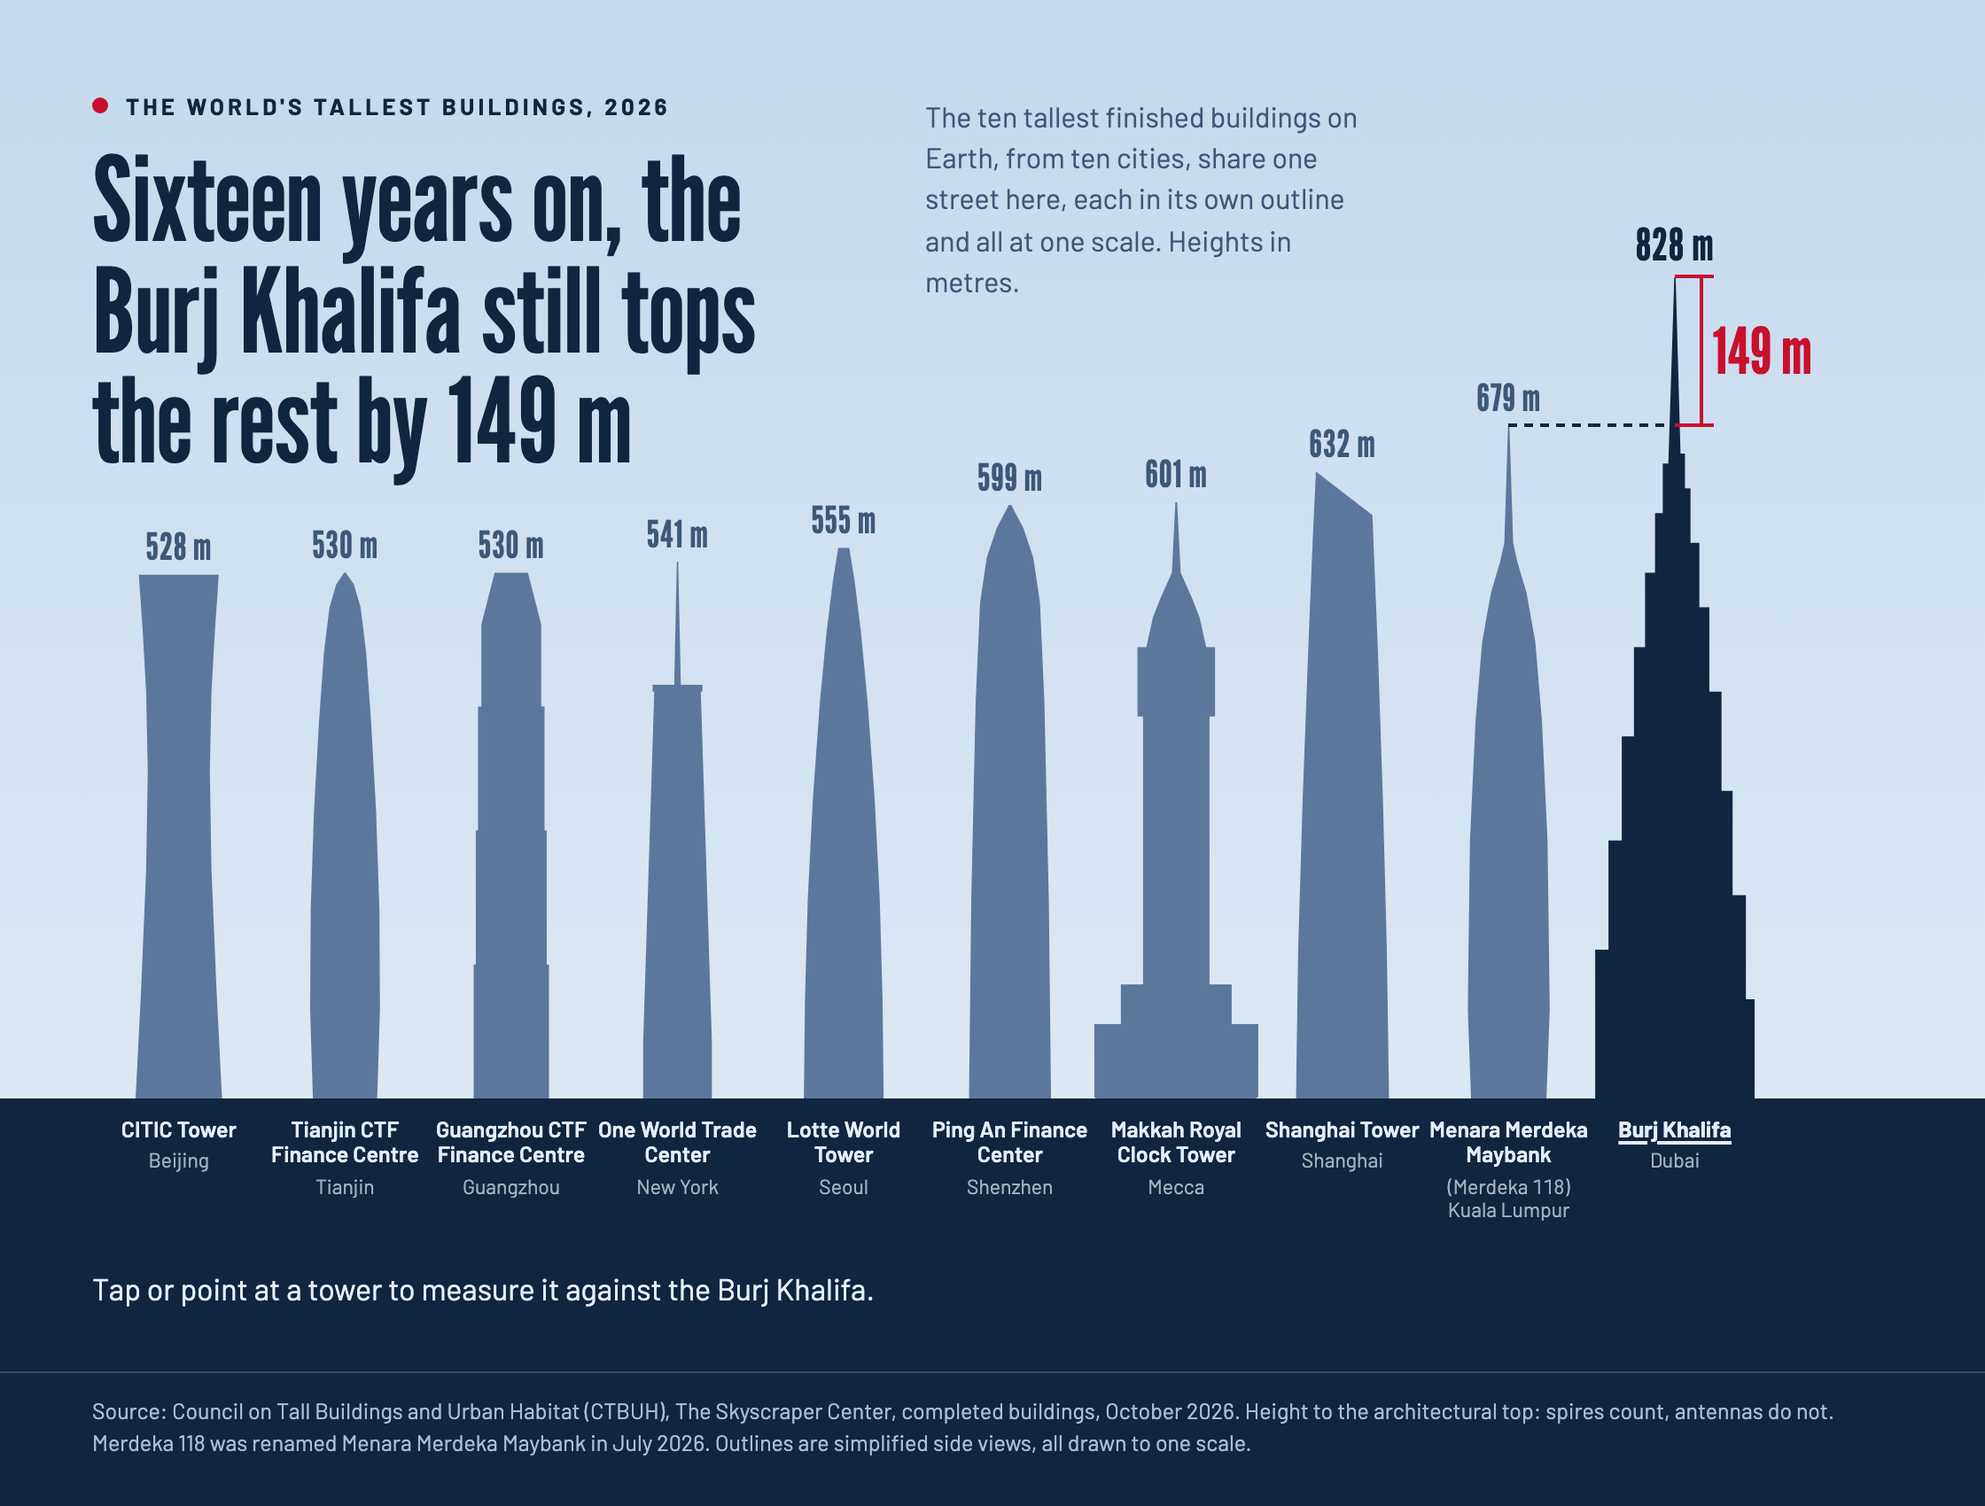
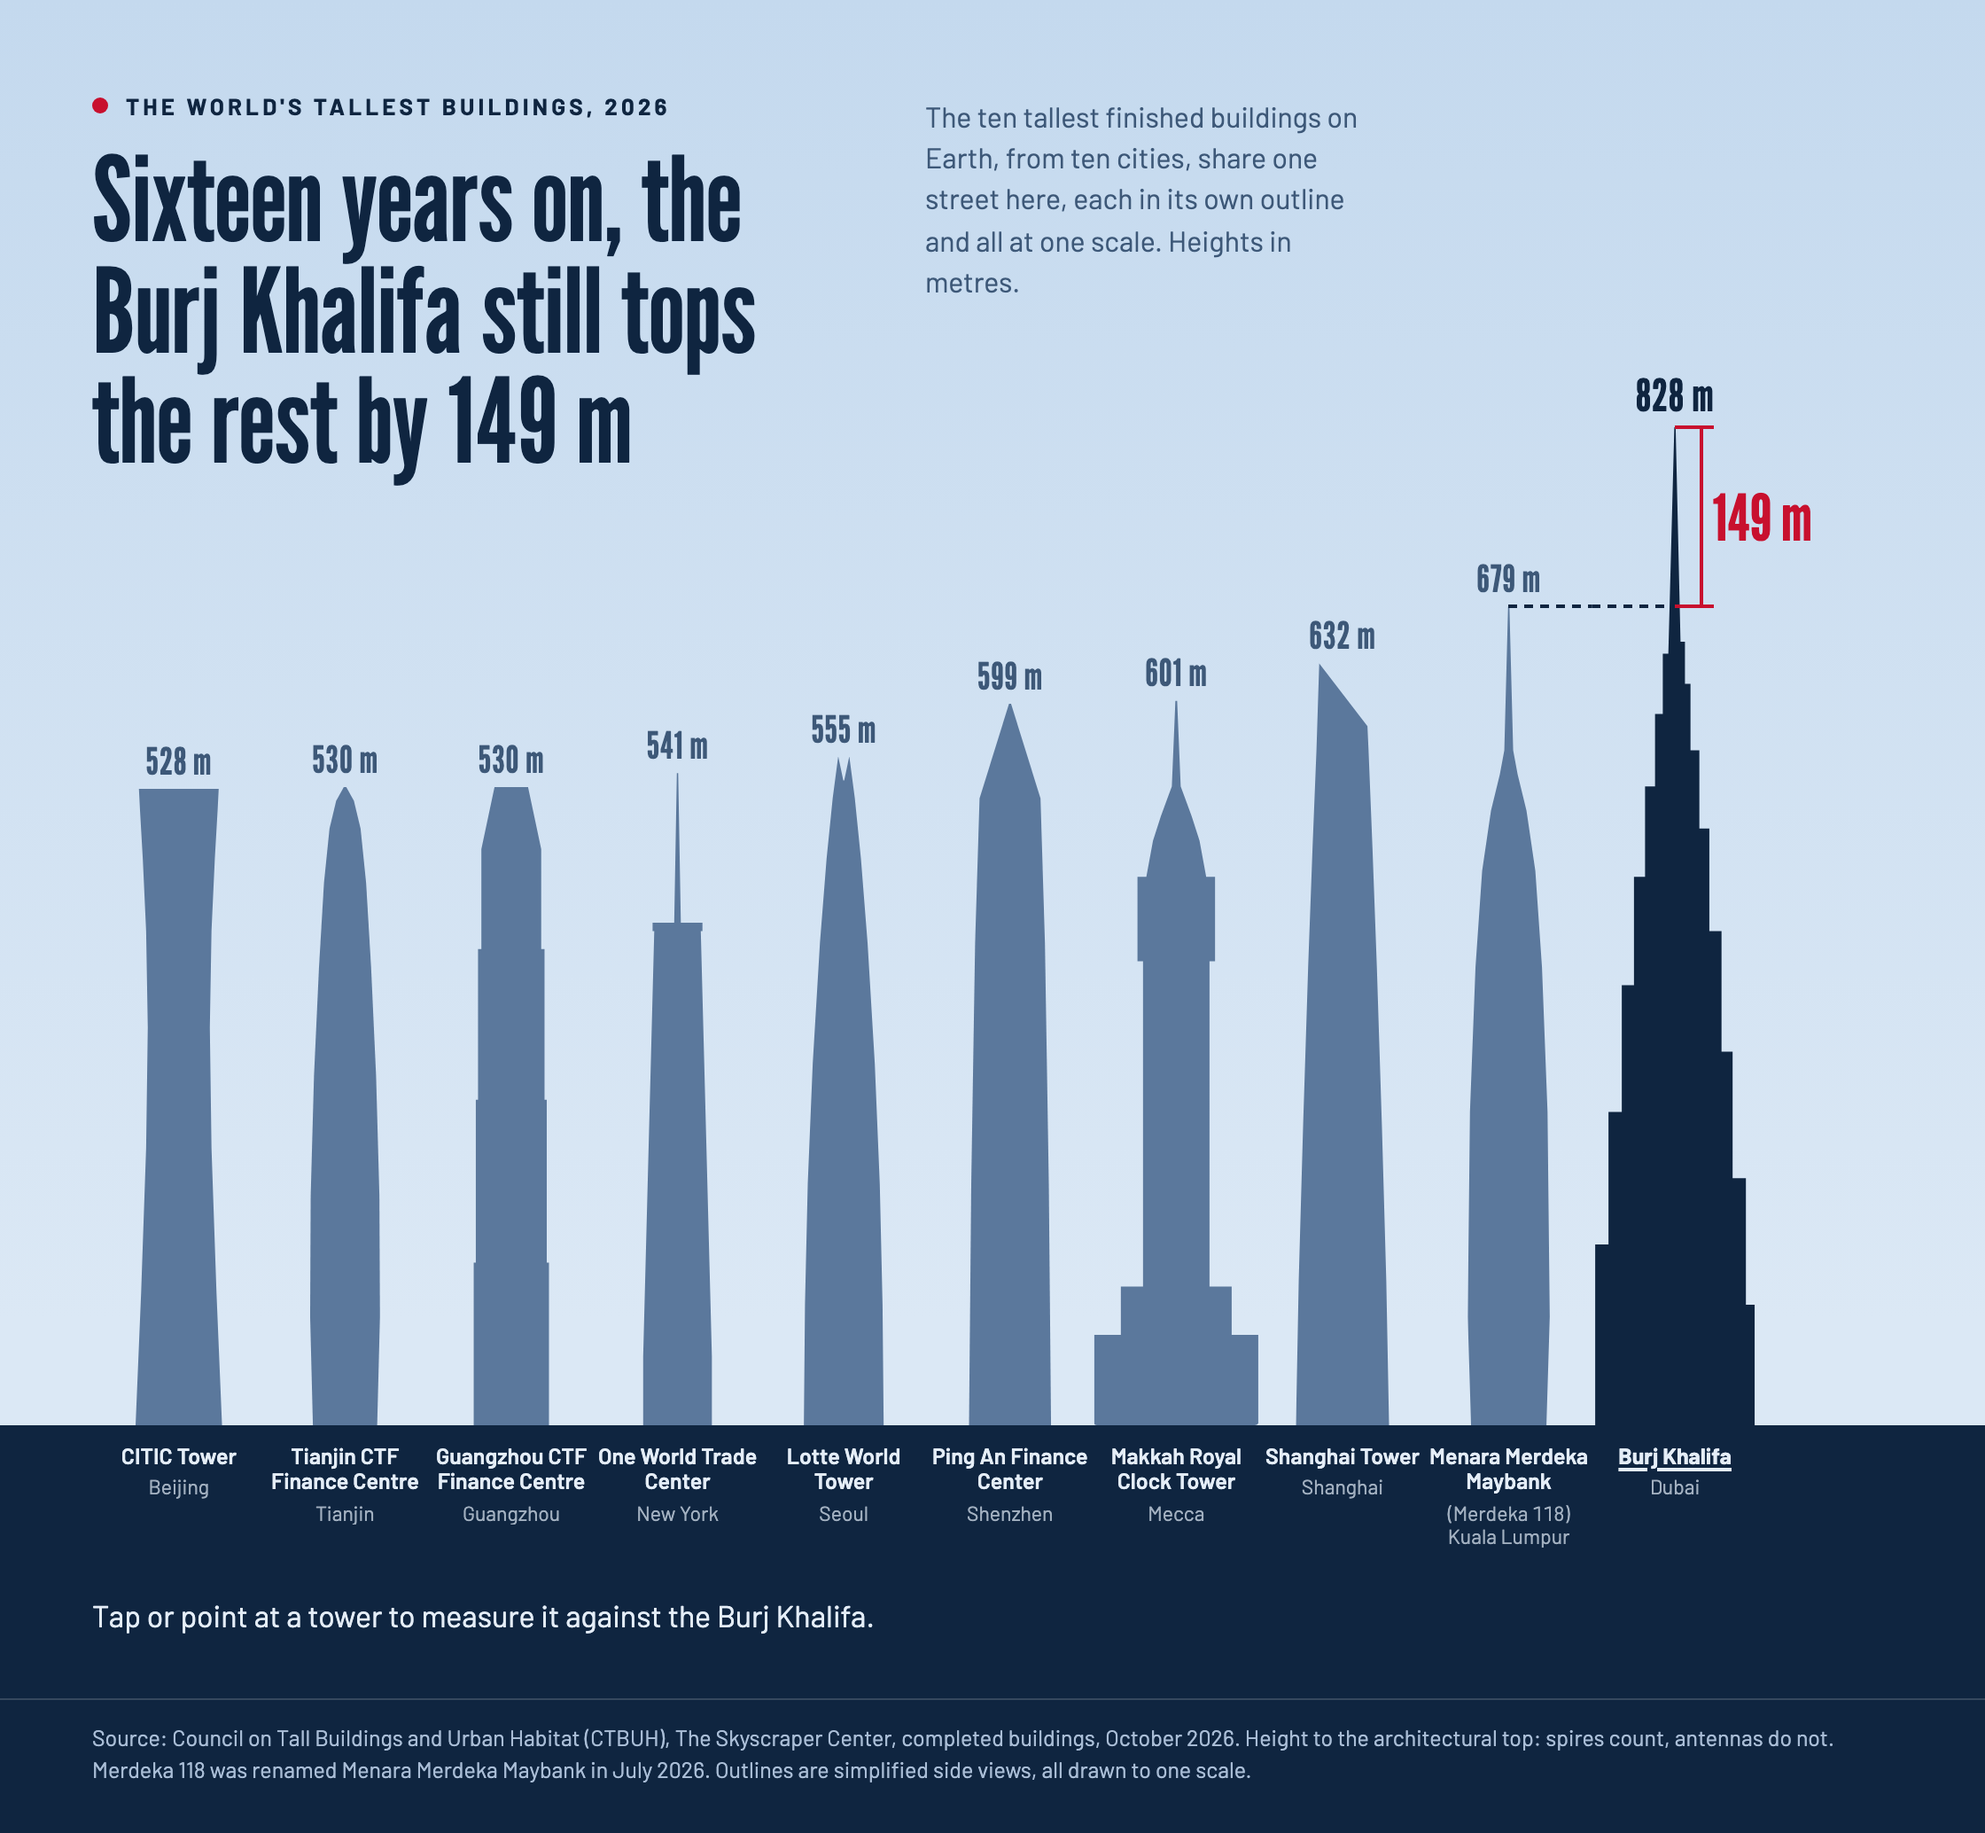
Update the silhouettes recipe: truer outlines and a taller plot

diff --git a/public/ai/rhp/recipes/silhouettes.html b/public/ai/rhp/recipes/silhouettes.html
@@ -67,7 +67,7 @@
     .poster .headline, .poster .kicker, .poster .dek { position: relative; z-index: 2; }
     .poster .headline { padding-right: 28px; }
     .poster .dek { align-self: start; margin-top: 2px; padding-right: 20px; font-size: 16px; }
-    .poster .stage { grid-area: 1 / 1 / 4 / 4; align-self: end; margin-top: 0; }
+    .poster .stage { grid-area: 1 / 1 / 4 / 4; align-self: end; margin-top: 64px; }
     .poster .readout { min-height: calc(2lh + 18px); }
     .poster .key { display: none; }
   }
@@ -127,12 +127,13 @@ const PROFILE = {
   },
   "Menara Merdeka Maybank": { left: [[0, 34], [90, 37], [260, 35], [380, 30], [460, 24], [510, 16], [540, 8], [560, 4], [679, 0.6]] },
   "Shanghai Tower": {
-    left: [[0, 42], [150, 40], [300, 36], [450, 31], [560, 27], [632, 24]],
-    right: [[0, 42], [150, 40], [300, 36.5], [450, 32], [560, 28], [588, 27]],
+    left: [[0, 42], [120, 39.5], [250, 35.5], [380, 31], [480, 27], [560, 23.5], [632, 21]],
+    right: [[0, 42], [120, 39.5], [250, 35.5], [380, 31], [480, 27], [560, 23.5], [580, 22.5]],
   },
   "Makkah Royal Clock Tower": { left: [[0, 74], [75, 74], [75, 50], [115, 50], [115, 30], [385, 30], [385, 35], [455, 35], [455, 27], [485, 21], [505, 14], [520, 8], [530, 4], [601, 0.8]] },
-  "Ping An Finance Center": { left: [[0, 37], [200, 35], [400, 31], [500, 27], [545, 21], [575, 12], [592, 4], [599, 0.8]] },
-  "Lotte World Tower": { left: [[0, 36], [100, 35], [200, 32.5], [300, 28], [400, 21.5], [470, 15.5], [520, 10], [555, 5]] },
+  "Ping An Finance Center": { left: [[0, 37], [200, 35], [400, 31.5], [520, 27.5], [599, 0.8]] },
+  // Lotte's top is split by a slit: its outline ends below the tip, in the middle, so the two sides meet in a notch
+  "Lotte World Tower": { left: [[0, 36], [100, 35], [200, 32.5], [300, 28], [400, 21.5], [470, 15.5], [520, 10], [555, 5], [535, 0.4]] },
   "One World Trade Center": { left: [[0, 31], [57, 31], [410, 21], [410, 22.5], [417, 22.5], [417, 3], [541, 0.6]] },
   "Guangzhou CTF Finance Centre": { left: [[0, 34], [135, 34], [135, 32], [270, 32], [270, 30], [395, 30], [395, 27], [478, 27], [530, 15]] },
   "Tianjin CTF Finance Centre": { left: [[0, 29], [90, 31.5], [190, 31], [290, 28], [380, 23.5], [450, 19], [495, 14], [518, 8], [530, 0.8]] },
@@ -275,7 +276,7 @@ function Skyline() {
       onPointerMove=${(e) => e.pointerType !== "touch" && pick(e)} onClick=${pick} onFocusIn=${pick}
       onPointerLeave=${leave} onFocusOut=${(e) => !e.currentTarget.contains(e.relatedTarget) && setPicked(null)}>
       <div class="stage" style=${() => `--street: ${wide() ? 88 : 32}px`}>
-        <${Chart} orientation="vertical" height=${() => (wide() ? 560 : 360)} scale=${[scale.min, scale.max]} ticks=${false}
+        <${Chart} orientation="vertical" height=${() => (wide() ? 680 : 420)} scale=${[scale.min, scale.max]} ticks=${false}
           label=${`The ${word(BUILDINGS.length)} tallest completed buildings in the world, by height in metres`} theme=${THEME}>
           <${Show} when=${wide} fallback=${() => towers(TowerRanked)}>${() => towers(TowerNamed)}<//>
         <//>
